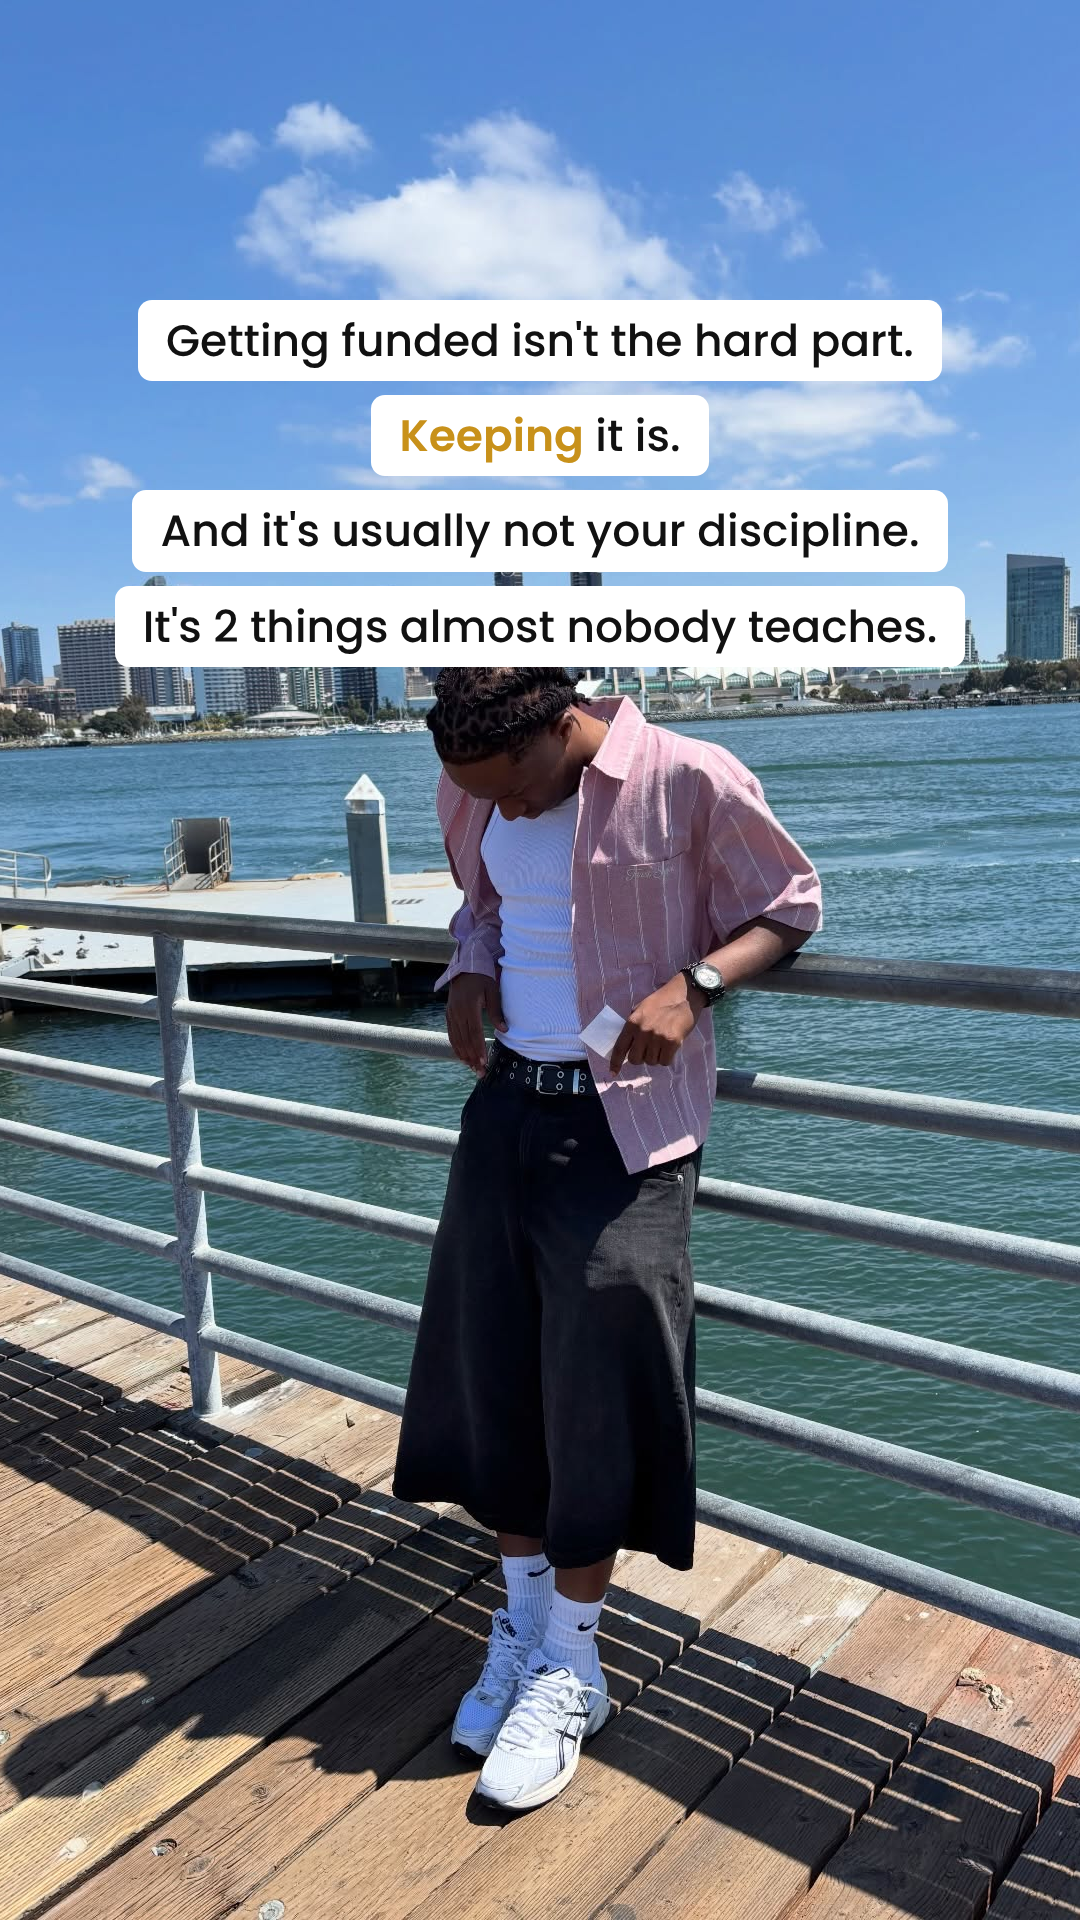
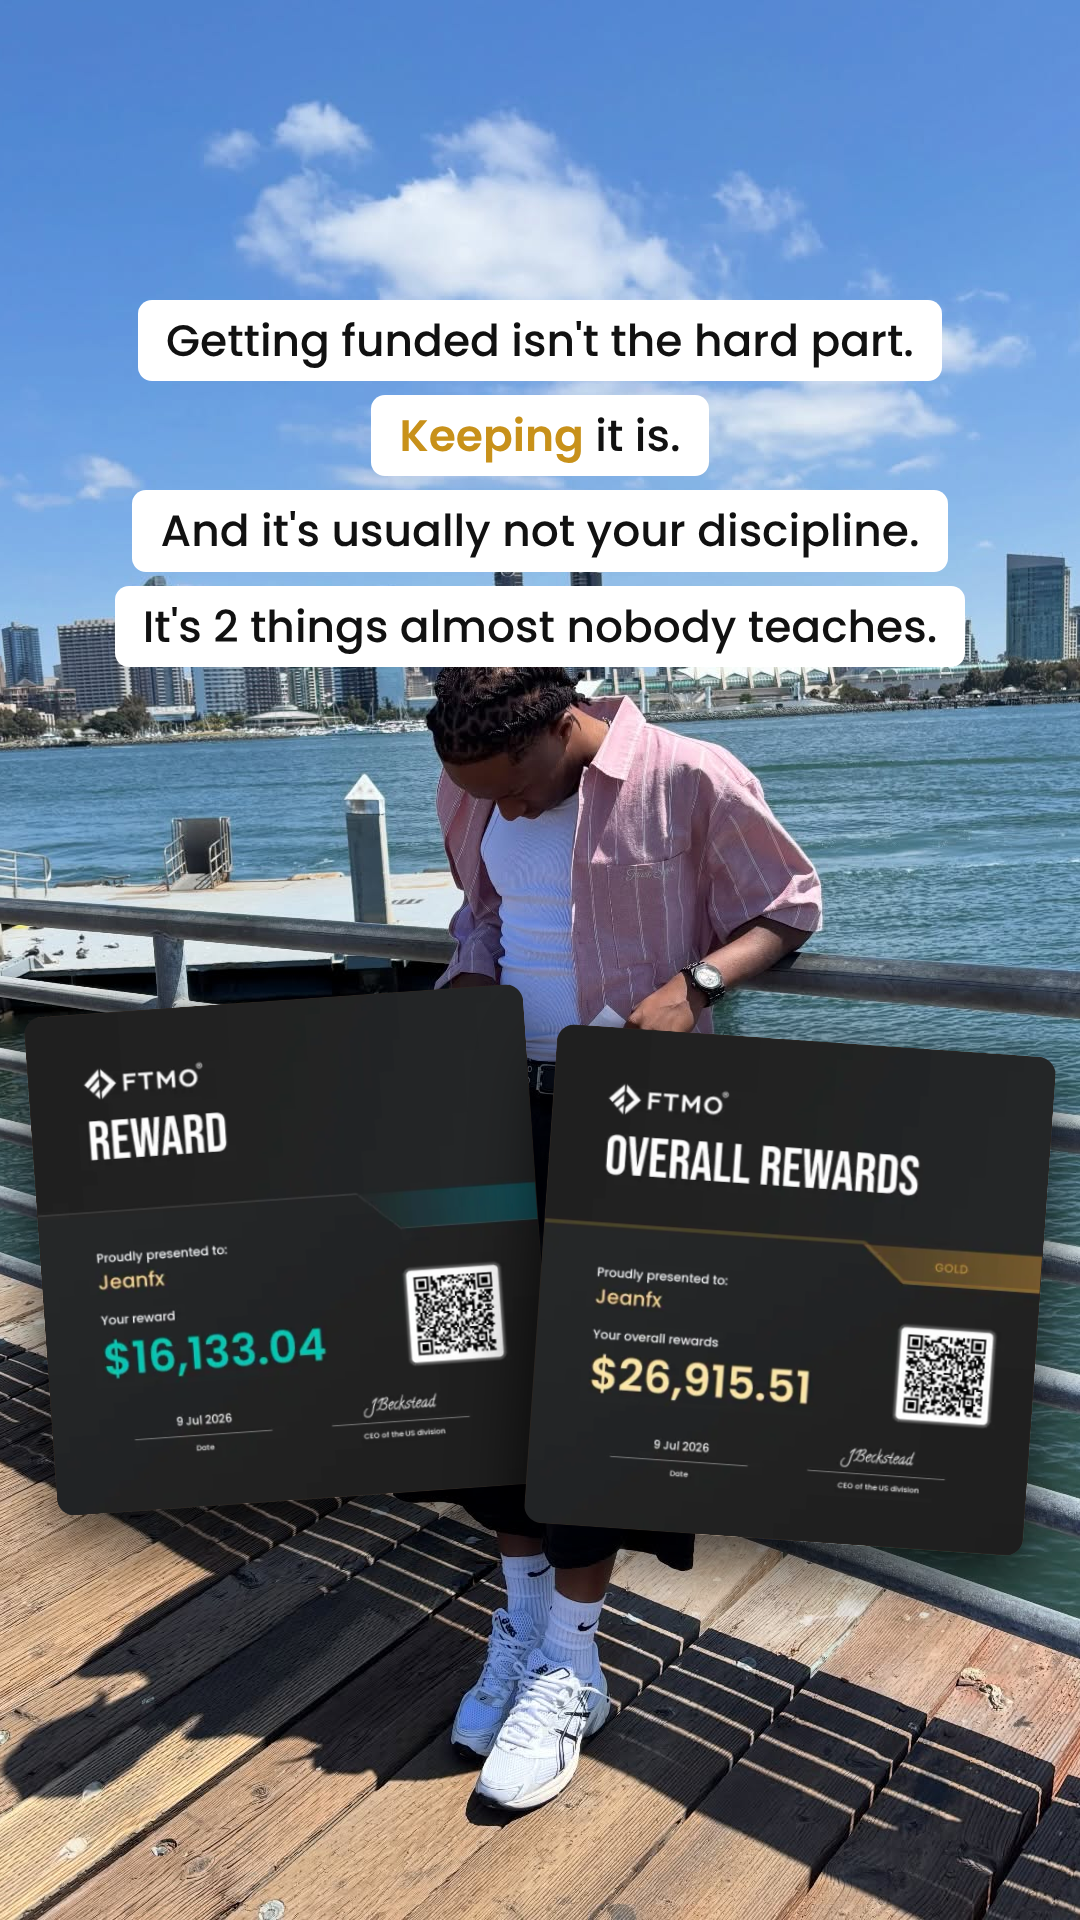
Variant B v3: bright supercars, Jean's FTMO results on frame 2, learn-free incentive
Claude-Session: https://claude.ai/code/session_015aTEPXVumuzpUDhw5jFPqj

Changed region(s): [[0.0, 0.5, 1.0, 0.8438]]

diff --git a/sequences/2026-11-10_soft_discord-keep-the-account/frames/01.html b/sequences/2026-11-10_soft_discord-keep-the-account/frames/01.html
@@ -2,6 +2,6 @@
 <link rel="preconnect" href="https://fonts.gstatic.com">
 <link href="https://fonts.googleapis.com/css2?family=Poppins:wght@500;600&display=swap" rel="stylesheet">
 <link href="style.css" rel="stylesheet"></head>
-<body><img class="bg" src="../../../03-backgrounds-larp/backgrounds/jean_ivan_11_1787611846_3971097690401227924_45494833154.jpg" style="object-position:50% 55%;">
-<div class="shade" style="background:linear-gradient(#000b,#0003 45%,#0006)"></div>
-<img class='card' src='../assets/fifa-19694.png' style='left:560px;top:1400px;width:450px;transform:rotate(4deg)'><div class="stack big" style="top:290px"><span class="l">Ever passed a challenge…</span><span class="l">then <span class="pain">blew</span> the</span><span class="l">funded account</span><span class="l">before your <span class="hl">first payout</span>?</span></div></body></html>
+<body><img class="bg" src="../../../03-backgrounds-larp/backgrounds/jean_ivan_11_1783644862_3937820353036234578_45494833154.jpg" style="object-position:50% 50%;">
+<div class="shade" style="background:linear-gradient(#0006,#0000 40%)"></div>
+<div class="stack big" style="top:290px"><span class="l">Ever passed a challenge…</span><span class="l">then <span class="pain">blew</span> the</span><span class="l">funded account</span><span class="l">before your <span class="hl">first payout</span>?</span></div></body></html>

diff --git a/sequences/2026-11-10_soft_discord-keep-the-account/frames/04.html b/sequences/2026-11-10_soft_discord-keep-the-account/frames/04.html
@@ -2,6 +2,6 @@
 <link rel="preconnect" href="https://fonts.gstatic.com">
 <link href="https://fonts.googleapis.com/css2?family=Poppins:wght@500;600&display=swap" rel="stylesheet">
 <link href="style.css" rel="stylesheet"></head>
-<body><img class="bg" src="../../../03-backgrounds-larp/backgrounds/jean_ivan_11_Ddi4TtXjJtZ_9.jpg" style="object-position:50% 50%;filter:blur(16px) brightness(.6);transform:scale(1.12)">
+<body><img class="bg" src="../../../03-backgrounds-larp/backgrounds/jean_ivan_11_1779493271_3902994701779115263_45494833154.jpg" style="object-position:50% 50%;">
 <div class="shade" style=""></div>
-<div class="stack" style="top:320px"><span class="l">Every week I go live in my <span class="hl">free Discord</span></span><span class="l">and go through members' accounts.</span><span class="l">Bring yours. I'll show you</span><span class="l">which one you're <span class="pain">missing</span>.</span><span class="l">Recorded if you're at work. Join below 👇</span></div></body></html>
+<div class="stack" style="top:300px"><span class="l">I teach <span class="hl">both</span>. For free.</span><span class="l">Everything I learned to get funded</span><span class="l">is inside my <span class="hl">free Discord</span>.</span><span class="l">Lessons, live calls, a Q&A I answer.</span><span class="l">Learn to trade for $0. Join below 👇</span></div></body></html>

diff --git a/sequences/2026-11-10_soft_discord-keep-the-account/frames/02.html b/sequences/2026-11-10_soft_discord-keep-the-account/frames/02.html
@@ -4,4 +4,4 @@
 <link href="style.css" rel="stylesheet"></head>
 <body><img class="bg" src="../../../03-backgrounds-larp/backgrounds/jean_ivan_11_1779493271_3902994675841404511_45494833154.jpg" style="object-position:50% 50%;">
 <div class="shade" style=""></div>
-<div class="stack" style="top:300px"><span class="l">Getting funded isn't the hard part.</span><span class="l"><span class="hl">Keeping</span> it is.</span><span class="l">And it's usually not your discipline.</span><span class="l">It's 2 things almost nobody teaches.</span></div></body></html>
+<img class='card' src='../assets/ftmo-reward-16133.png' style='left:40px;top:1000px;width:500px;transform:rotate(-4deg)'><img class='card' src='../assets/ftmo-overall-26915.png' style='left:540px;top:1040px;width:500px;transform:rotate(4deg)'><div class="stack" style="top:300px"><span class="l">Getting funded isn't the hard part.</span><span class="l"><span class="hl">Keeping</span> it is.</span><span class="l">And it's usually not your discipline.</span><span class="l">It's 2 things almost nobody teaches.</span></div></body></html>

diff --git a/sequences/2026-11-10_soft_discord-keep-the-account/sequence.md b/sequences/2026-11-10_soft_discord-keep-the-account/sequence.md
@@ -1,22 +1,22 @@
-# Variant B (v2): "Keeping it is the hard part"
+# Variant B (v3): "Keeping it is the hard part"  ⭐ user favourite
 
 ## Brief
-- **Type:** Soft CTA · 4 frames · white box + Poppins, red/gold words
+- **Type:** Soft CTA · 4 frames · white box + Poppins, red/gold words, **bright daytime photos**
 - **Angle:** Marcus passes challenges but blows the funded account before payout. It's usually not discipline; it's 2 missing pieces.
-- **Incentive (new):** a weekly live call in the free Discord (Call Center) where Jean goes through members' funded accounts and tells them which of the 2 pieces they're missing. Recorded for people at work. ⚠ **Jean must run it every week, and record it.**
-- **Silent proof:** frame 1 has a real member payout (fifa, FundedNext $19,694.08, 200K) placed in the corner, never mentioned. Name and QR blurred.
-- **Placeholders:** `[DISCORD LINK]`, the call's day/time (optional to add)
+- **Incentive (v3):** learn to trade for free. Everything Jean learned to get funded is inside the free Discord: lessons (#free-game), live calls (Call Center), and a Q&A he answers (#question-tab). ⚠ **Make sure the free lessons actually cover both pieces (sweep entries + sizing to firm drawdown) before posting.**
+- **Proof:** frame 2 shows Jean's two biggest FTMO certificates, unblurred: Reward **$16,133.04** and Overall Rewards **$26,915.51** (9 Jul 2026, from `02-results` 18.08.37). They're never mentioned in the copy.
+- **Placeholders:** `[DISCORD LINK]`
 
 ## Frames
 | # | Copy | Visual | Add in app |
 |---|---|---|---|
-| 01 | Ever passed a challenge… / then ~blew~ the funded account / before your *first payout*? | **Black Mustang at night (LARP)** + $19,694.08 certificate card, bottom right | **Poll** in the open area under the text: "Yes 💀" / "More than once 😭" |
-| 02 | Getting funded isn't the hard part. / *Keeping* it is. / And it's usually not your discipline. / It's 2 things almost nobody teaches. | Jean on the pier | — |
+| 01 | Ever passed a challenge… / then ~blew~ the funded account / before your *first payout*? | yellow Ferrari + red Porsche at the valet, bright blue sky | **Poll** under the text, over the canopy: "Yes 💀" / "More than once 😭" |
+| 02 | Getting funded isn't the hard part. / *Keeping* it is. / And it's usually not your discipline. / It's 2 things almost nobody teaches. | Jean on the pier + both FTMO certificates, bottom half | — |
 | 03 | 1. Get in *after* the sweep, not before. / 2. Size to *your firm's* drawdown. / Not some random 1% rule. / Most traders only ever fix one… | Jean in the lobby | — |
-| 04 | Every week I go live in my *free Discord* / and go through members' accounts. / Bring yours. I'll show you / which one you're ~missing~. / Recorded if you're at work. Join below 👇 | frame 1's laptop shot, blurred | **Link sticker** "JOIN THE DISCORD" under the text |
+| 04 | I teach *both*. For free. / Everything I learned to get funded / is inside my *free Discord*. / Lessons, live calls, a Q&A I answer. / Learn to trade for $0. Join below 👇 | blue Urus + 2 Ferraris under palm trees, daylight | **Link sticker** "JOIN THE DISCORD" on the plain concrete in the bottom third |
 
-Frame 4 answers frame 3's open loop ("most only fix one" → "I'll show you which one you're missing").
+Frame 4 closes frame 3's loop ("most only fix one" → "I teach both").
 
 ## History
-- Round 1 incentive (a per-firm risk calculator) was dropped on feedback ("quite ass").
-- 3-POV review fixes from round 1 are kept: no filler hook, 4-box frame 3, "usually not your discipline", "No signals" stance.
+- v1 incentive: per-firm risk calculator ("quite ass"). v2: weekly live account breakdown + Mustang/payout card on frame 1 ("bring yours" was also "quite ass").
+- v3 (this): bright supercar photos, results moved to frame 2, made bigger and unblurred, "learn to trade for free" incentive.

diff --git a/brand.md b/brand.md
@@ -47,3 +47,4 @@ _No fixed brand kit given._ Jean's own photos (see `03-backgrounds-larp/backgrou
 <!-- Dated feedback and performance notes. Claude reads this before every new sequence.
 Example: 2026-11-12 · soft · "free-guide" sequence: 38 DMs. Poll on frame 1 worked; frame 4 too wordy. -->
 - 2026-11-10 · soft · free-Discord variants: user liked **B ("keeping it is the hard part")** a lot. The per-firm risk-calculator incentive was rated weak ("quite ass"). User wants a **silent results screenshot on frame 1** (shown, never mentioned) and **LARP on frame 1** (black Mustang at night, which the user calls "the Hellcat"). Incentives should be strong and tied to real Discord features.
+- 2026-11-10 · soft · variant B v3: user wants **bright daytime photos** (supercars in daylight) over dark/night shots; results **bigger, on frame 2, not blurred** (Jean's own certificates are fine to show); the incentive should be **"learn to trade for free"**, not "bring your account" or a calculator. No blurred backgrounds.
